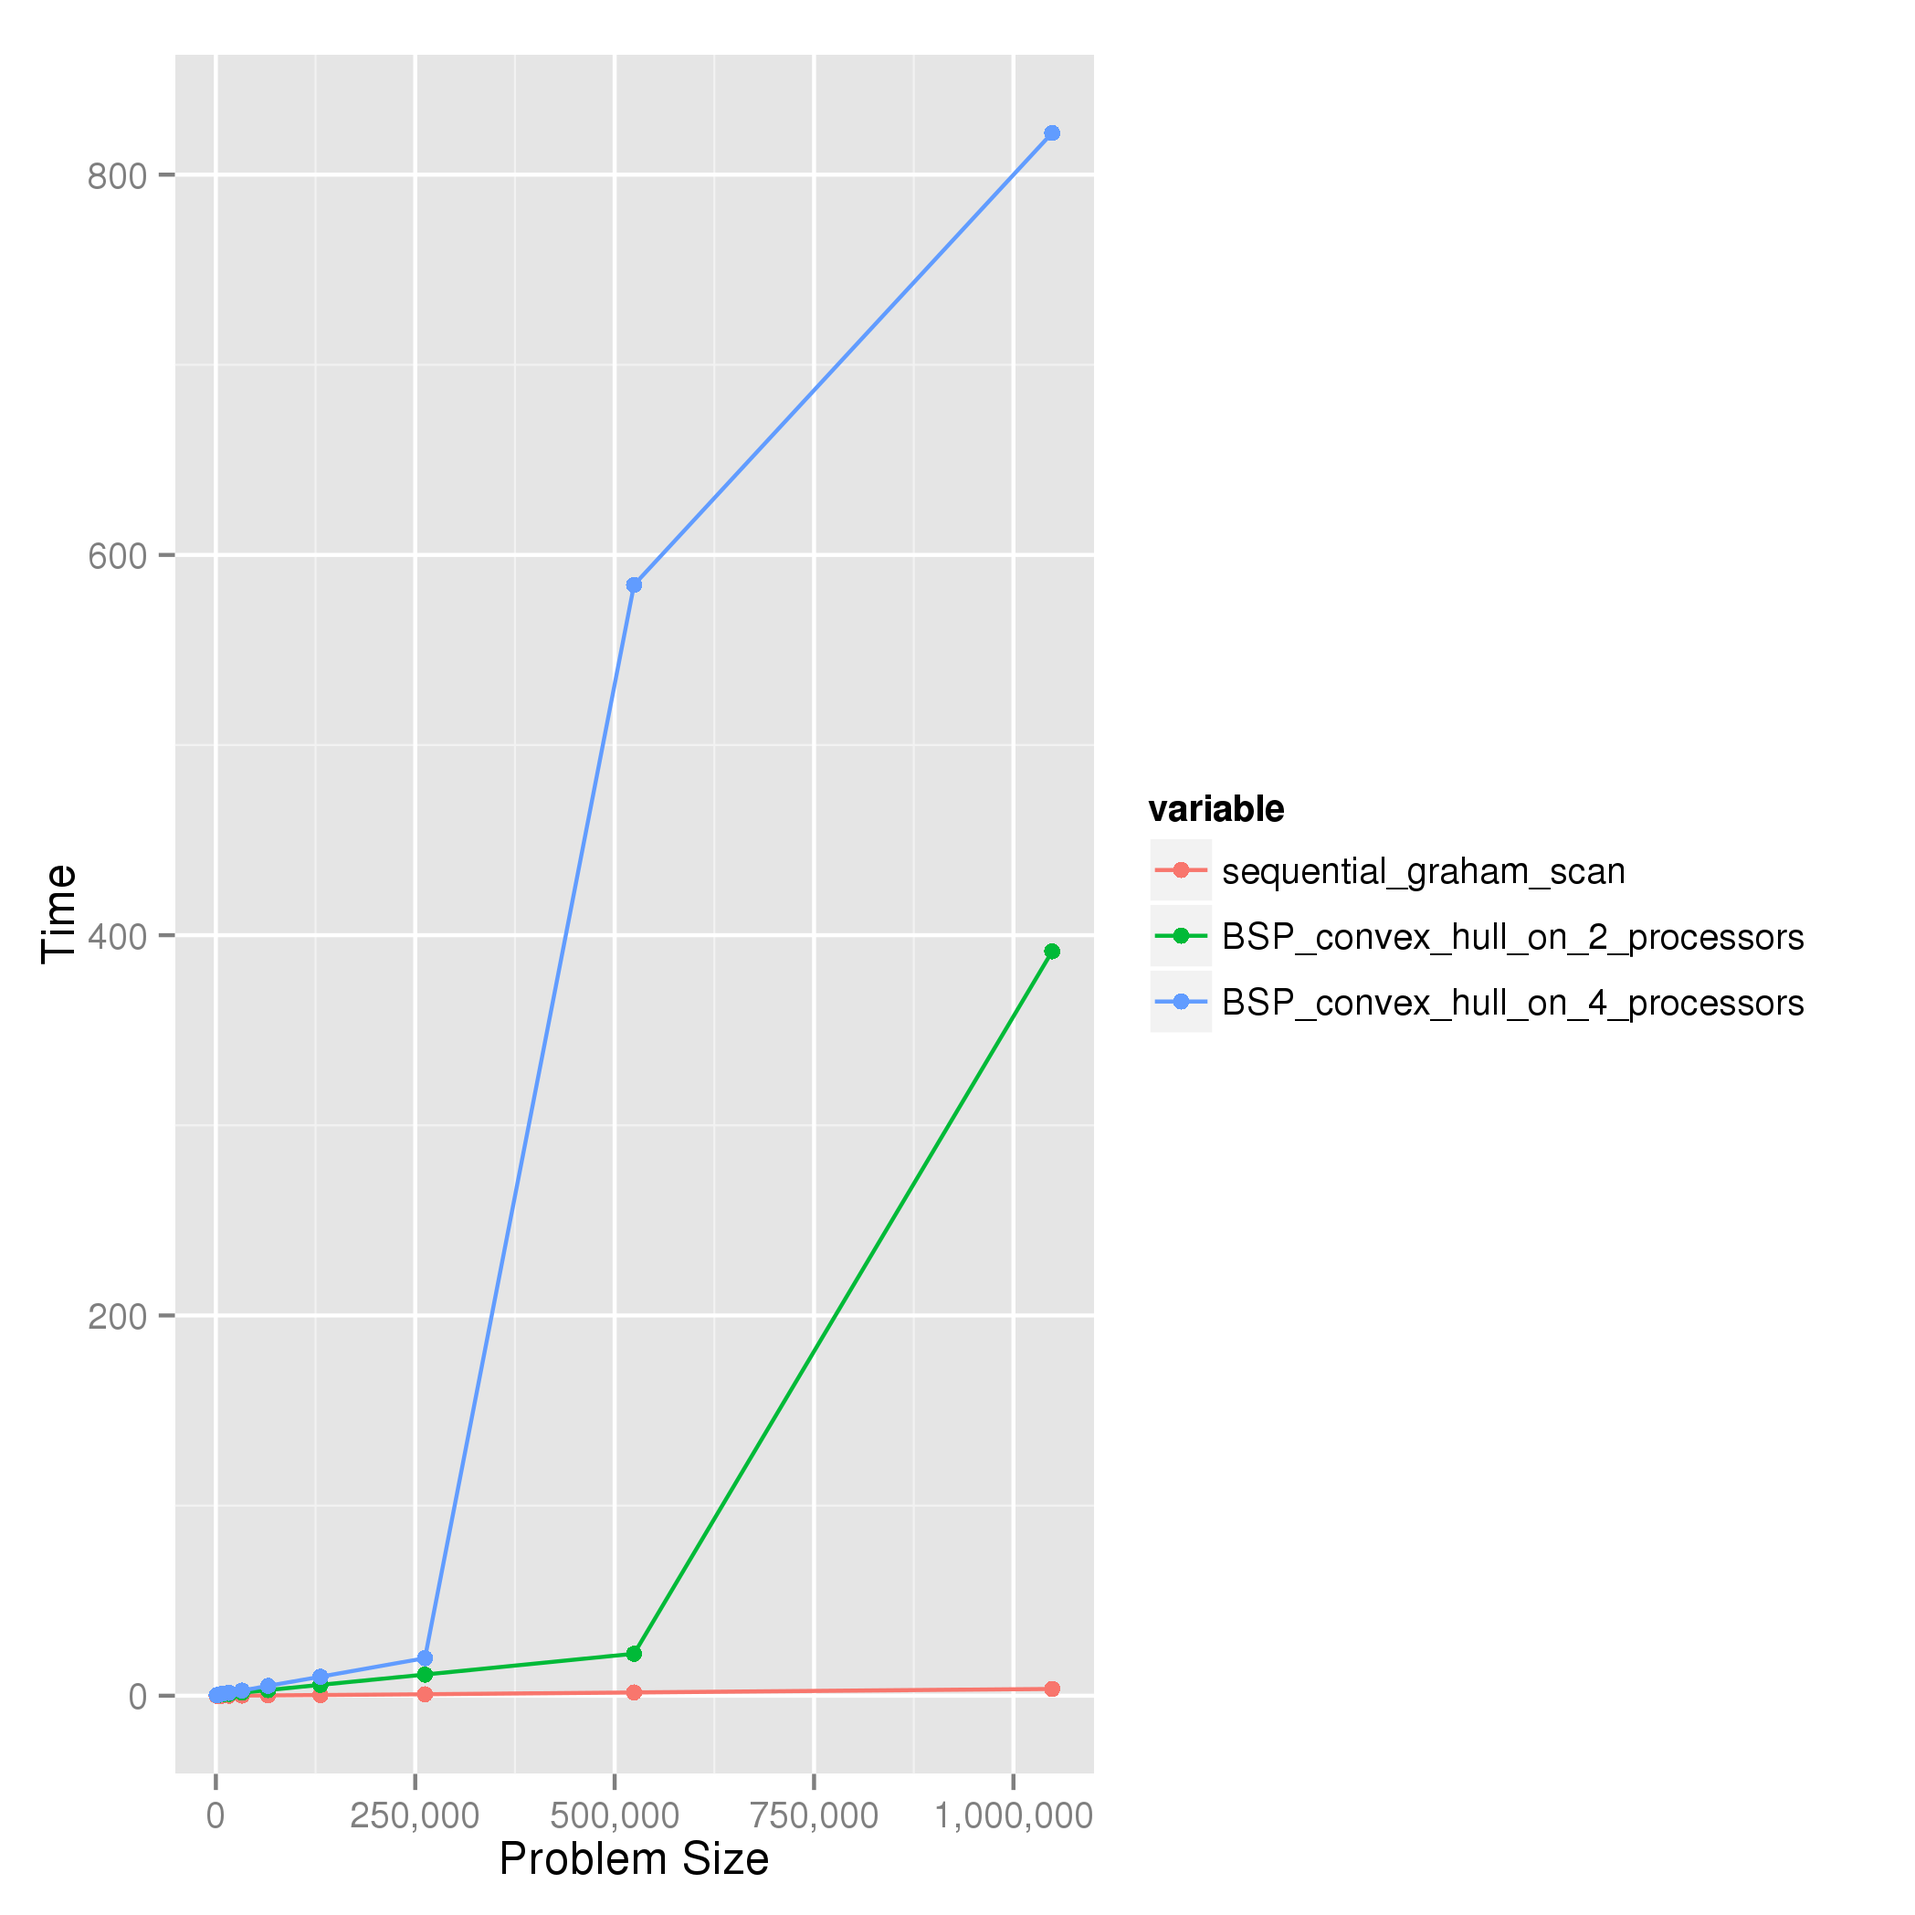
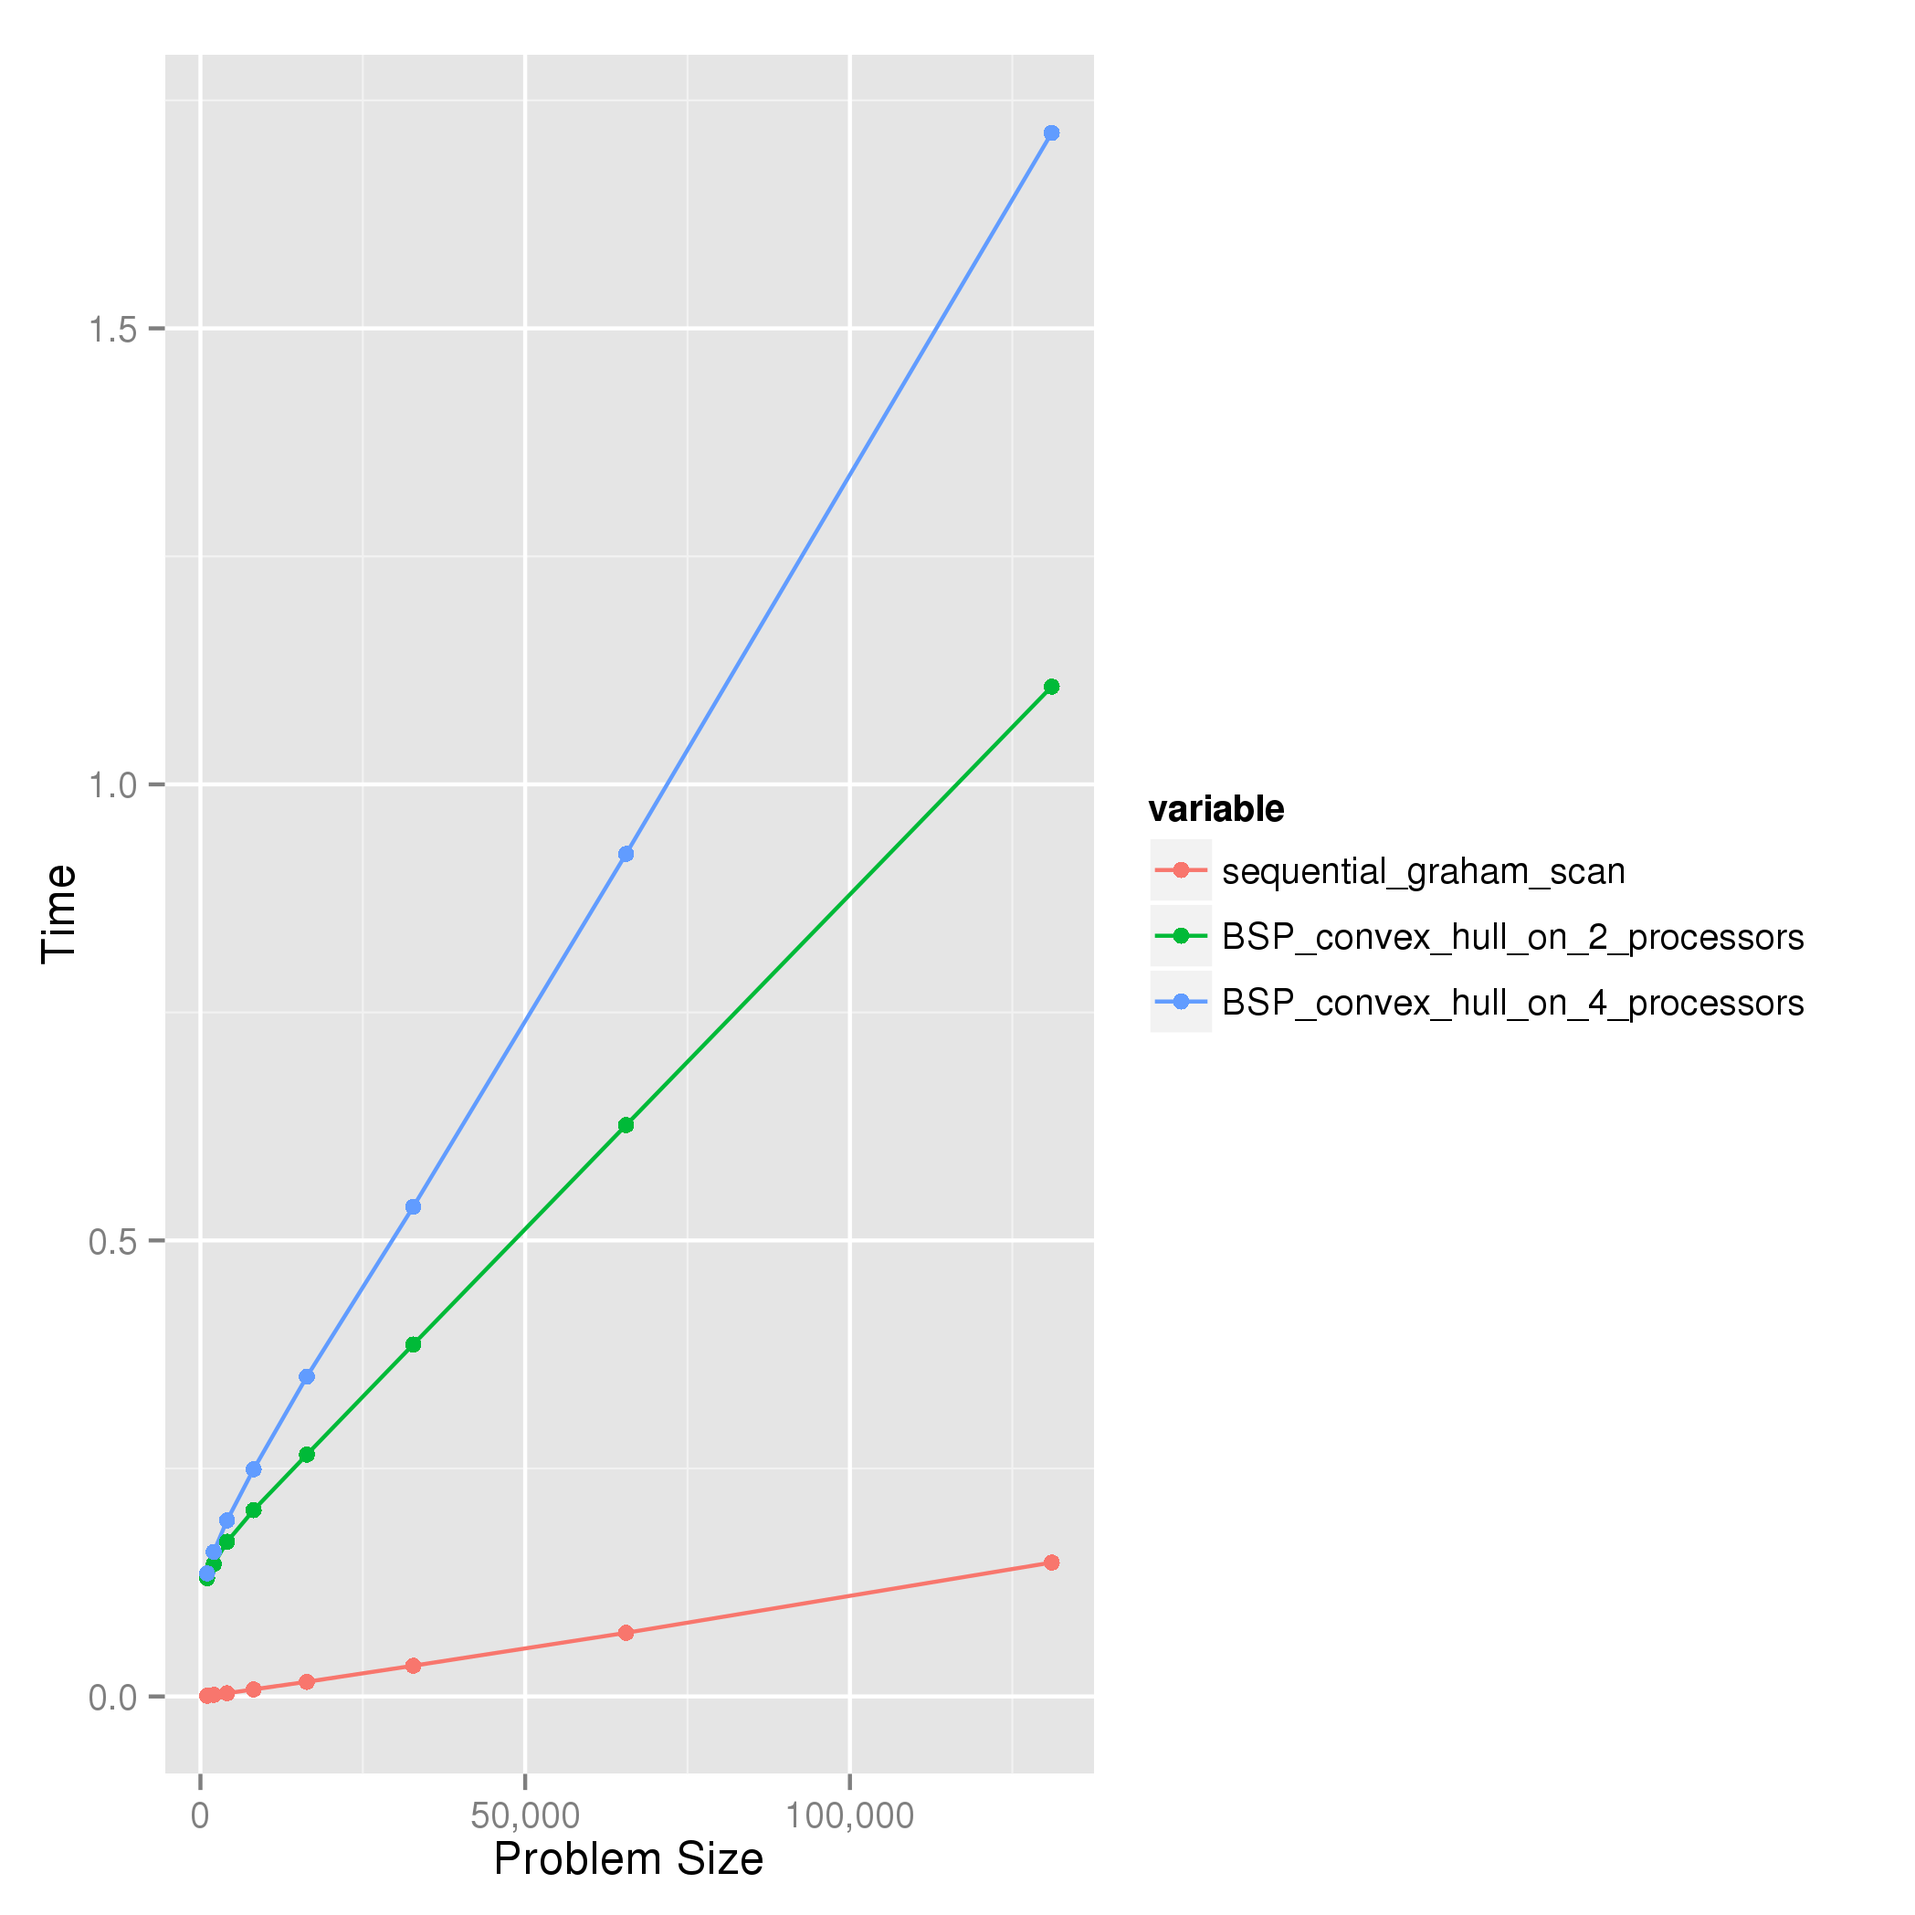
[ConvexHull] tests rewritten for stress and perf use-cases;

diff --git a/convex_hull/src/convex_hull.cpp b/convex_hull/src/convex_hull.cpp
@@ -395,10 +395,6 @@ bool is_point_inside_polygon (const vector<Point2D>& polygon,
 Point2D_const_iterator find_interior_point (const vector<Point2D>& points,
                                             const vector<Point2D>& hull,
                                             bool prioritized) {
-    std::set<Point2D, compare_points_closer_to_leftmost> hull_set;
-    std::copy (hull.cbegin (), hull.cend (),
-               std::inserter (hull_set, hull_set.end ()));
-
     struct compare_points_less_penalty {
         bool operator () (const std::pair<Point2D, double>& first_point,
                           const std::pair<Point2D, double>& second_point)
@@ -416,11 +412,12 @@ Point2D_const_iterator find_interior_point (const vector<Point2D>& points,
 
     for (auto p = points.cbegin ();
          p != points.cend (); ++p)
-    {   if (prioritized && is_point_inside_polygon (hull, *p))
-        {   pq.emplace (generatePair (*p));
-        } else if (hull_set.end () == hull_set.find (*p) &&
-                   is_point_inside_polygon (hull, *p))
-        {   return p;
+    {   if (is_point_inside_polygon (hull, *p))
+        {   if (prioritized)
+            {   pq.emplace (generatePair (*p));
+            } else
+            {   return p;
+            }
         }
     }
 
@@ -432,10 +429,17 @@ Point2D_const_iterator find_interior_point (const vector<Point2D>& points,
 }
 
 
+
 vector<Point2D> find_interior_points (vector<Point2D> points,
                                       const vector<Point2D>& hull,
                                       const Point2D& origin_point) {
     points.erase (std::remove (points.begin (), points.end (), origin_point));
+    for (auto hull_point: hull)
+    {   points.erase (std::remove (points.begin (),
+                                   points.end (),
+                                   hull_point));
+    }
+
     vector<Point2D> interior_points;
     Point2D_const_iterator current_interior_point;
     {   current_interior_point = find_interior_point (points, hull);
@@ -1023,7 +1027,9 @@ void parallel_2d_hull::compute_enet (const vector<Point2D>& points) {
         draw_hull ("hull_from_samples.png", whole_pointset_, hull, interior_point_);
 
         // traverse triangles
-        vector<Point2D> points_left = find_interior_points (whole_pointset_, hull, interior_point_);
+        vector<Point2D> points_left = find_interior_points (whole_pointset_,
+                                                            hull,
+                                                            interior_point_);
         vector<std::pair<Point2D, Point2D>> lines;
         vector<triangle> triangles;
         for (auto hull_edge_start = hull.begin ();
@@ -1287,9 +1293,9 @@ void compute_2d_hull_with_bsp () {
     bsp_sync ();
     computer.compute_hull ();
     double time_end = bsp_time();
-    // if (0 == bsp_pid ())
-    // {   cout << "Time = " << time_end - time_start;
-    // }
+    if (0 == bsp_pid ())
+    {   cout << "Time = " << time_end - time_start;
+    }
     bsp_sync ();
     bsp_end ();
 }
@@ -1305,6 +1311,6 @@ int main (int argc, char ** argv) {
     // draw_subset ("plain.points.png", points, vector<Point2D> ());
     bsp_init (compute_2d_hull_with_bsp, argc, argv);
     compute_2d_hull_with_bsp ();
-    write_points (convex_hull);
+    // write_points (convex_hull);
     return 0;
 }

diff --git a/convex_hull/test/tests.py b/convex_hull/test/tests.py
@@ -22,6 +22,13 @@ normal_rbox_app_ = \
 allowed_error_ = float (1e-9)
 
 perf_data_ = "times.csv"
+perf_file_ = ""
+
+
+
+def get_time (time_msg):
+    ind = time_msg.rfind (' ')
+    return time_msg[ind + 1 :]
 
 
 
@@ -58,6 +65,7 @@ def compare_cycles (cycle_string_first, cycle_string_second):
 def hull_test (seed, \
                problem_size, \
                testing_for_performance = False) :
+    global perf_file_
     seeding_argument = 't' + str(seed)
     # print "seed was", seeding_argument
     # rbox_process = Popen (['rbox', '1024', 'D2', seeding_argument], stdout = PIPE, shell = True)
@@ -70,22 +78,27 @@ def hull_test (seed, \
     if not testing_for_performance:
         qh = subprocess.Popen(["qhull", "p"],
                               stdout=PIPE, stdin=PIPE, stderr=STDOUT)
-        qhull_output = qh.communicate (input=problem[0])[0]
-        print "Ch_gs Result:", qhull_output
+    else:
+        qh = subprocess.Popen([convex_hull_gs_app_],
+                              stdout=PIPE, stdin=PIPE, stderr=STDOUT)
+
+    qhull_output = qh.communicate (input=problem[0])[0]
     
-    ch = subprocess.Popen([convex_hull_2_app_],
+    ch2 = subprocess.Popen([convex_hull_2_app_],
                           stdout=PIPE, stdin=PIPE, stderr=STDOUT)
-    convex_hull_output2 = ch.communicate (input=problem[0])[0]
+    convex_hull_output2 = ch2.communicate (input=problem[0])[0]
     
     ch4 = subprocess.Popen([convex_hull_4_app_],
                           stdout=PIPE, stdin=PIPE, stderr=STDOUT)
     convex_hull_output4 = ch4.communicate (input=problem[0])[0]
     
     if testing_for_performance :
-       pass 
+        perf_file_.write (get_time (qhull_output) + ',' +
+                          get_time (convex_hull_output2) + ',' +
+                          get_time (convex_hull_output4) + '\n')
     else :
-        if (compare_cycles (qhull_output, convex_hull_output4)) : #and \
-            #compare_cycles (qhull_output, convex_hull_output2)) :
+        if (compare_cycles (qhull_output, convex_hull_output4) and \
+            compare_cycles (qhull_output, convex_hull_output2)) :
             return True
         else :
             print "Test failed: " + \
@@ -107,21 +120,29 @@ def testing (problem_size):
     random_seeds = [350, 1816]
     for i in range (runs_amount - seeds_amount):
         random_seeds.append (random_seeds[-1] + random_seeds[-2])
-
+    
     for x in range (runs_amount):
-        # print "*** TEST", x, "**********"
-        if not hull_test (random_seeds[x], problem_size):
+        if not hull_test (random_seeds[x], problem_size, True):
             break
 
 
+
 def main ():
-    problem_sizes = [1024, 2048, 4096, 8192, 16384, \
+    global perf_file_
+    problem_sizes = [1024 , 2048, 4096, 8192, 16384, \
                      32768, 65536, 131072, 262144, \
                      524288] #, 1048576]#, 2097152]
-    problem_sizes = [64]
+    perf_file_ = open (perf_data_, 'w')
+    perf_file_.write ("problemSize,sequential_graham_scan," +
+                      "BSP_convex_hull_on_2_processors," +
+                      "BSP_convex_hull_on_4_processors" + "\n")
     for x in problem_sizes:
+        perf_file_.write (str (x) + ',')
         testing (x)
+    perf_file_.close ()
+
 
 
 if __name__ == "__main__":
     main ()
+

diff --git a/convex_hull/src/logging.h b/convex_hull/src/logging.h
@@ -19,7 +19,7 @@ public:
     };
 
     Logger ()
-        : mode_ (DEV_LEAD_ONLY | DEV_ALL) //(SUPPRESS) //  
+        : mode_ (SUPPRESS) //(DEV_LEAD_ONLY | DEV_ALL) //  
     {   if (!(mode_ & SUPPRESS))
         {   stream.open("log.txt", std::ios::app);
         }
